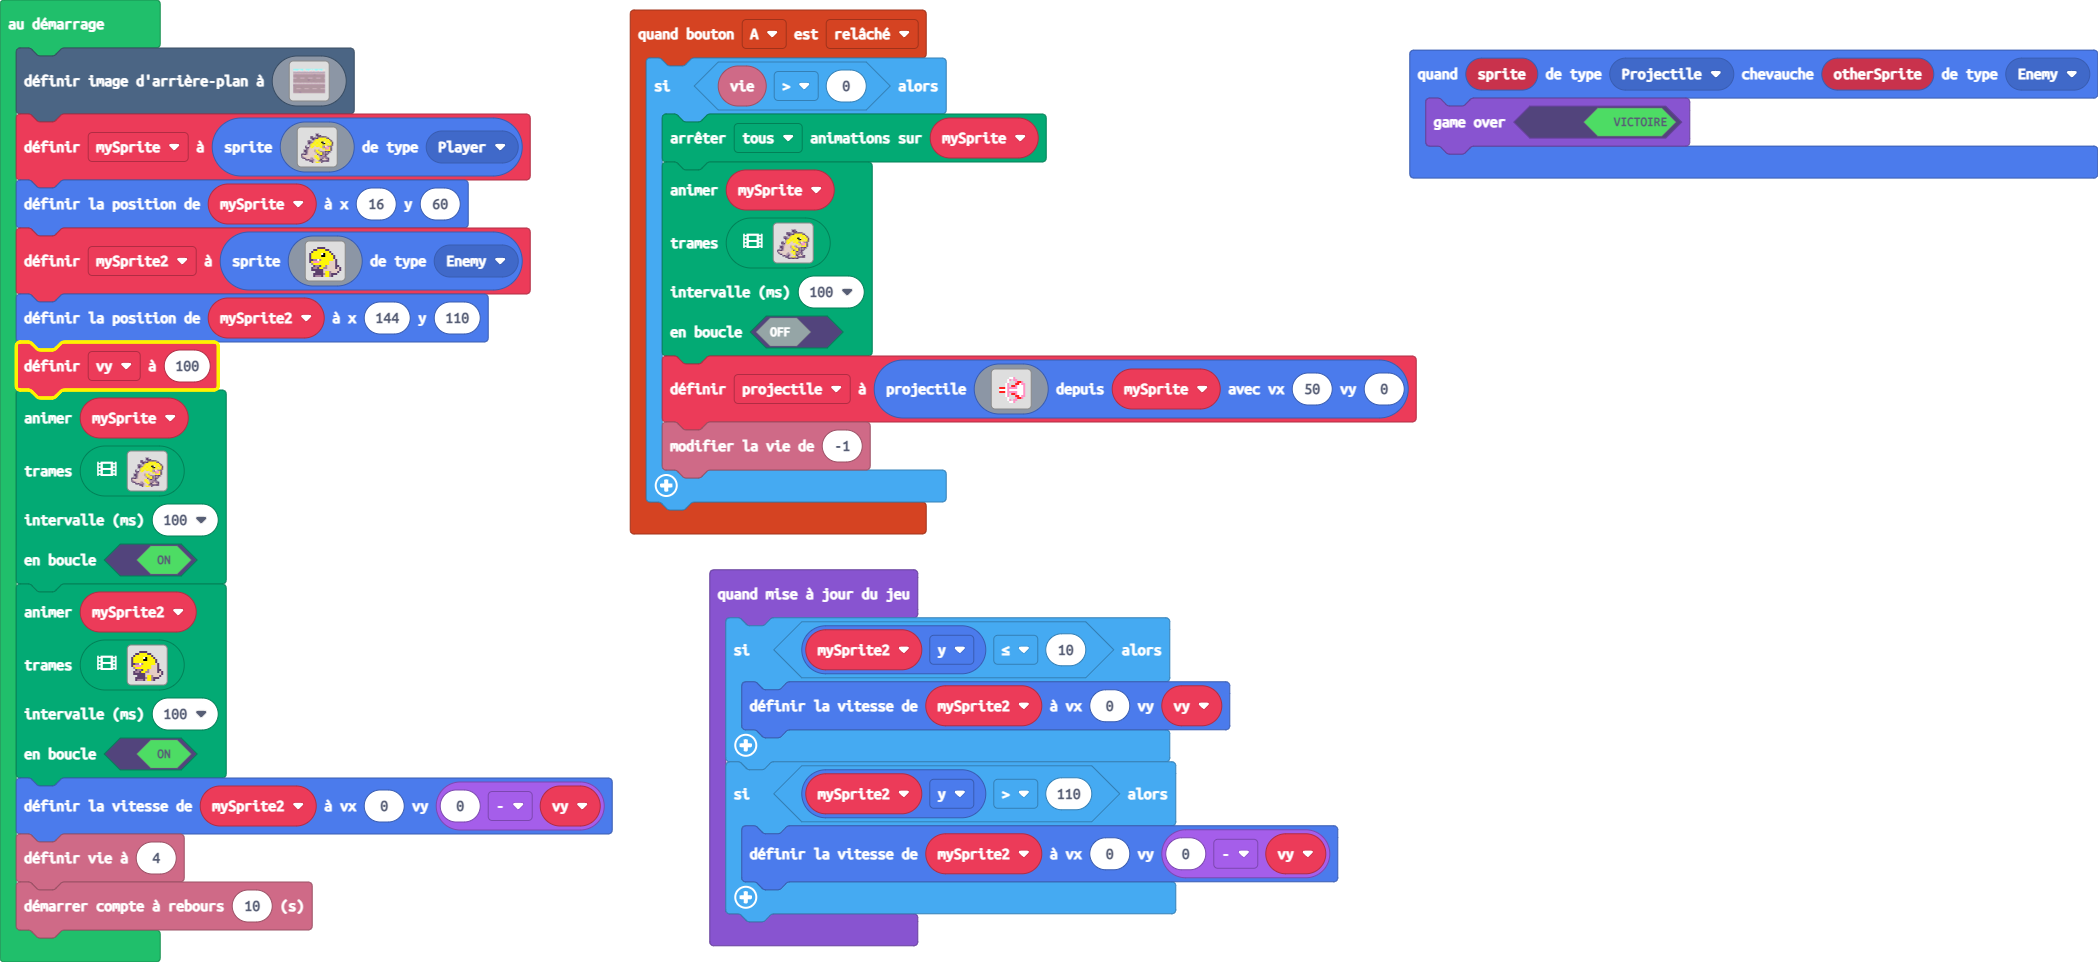
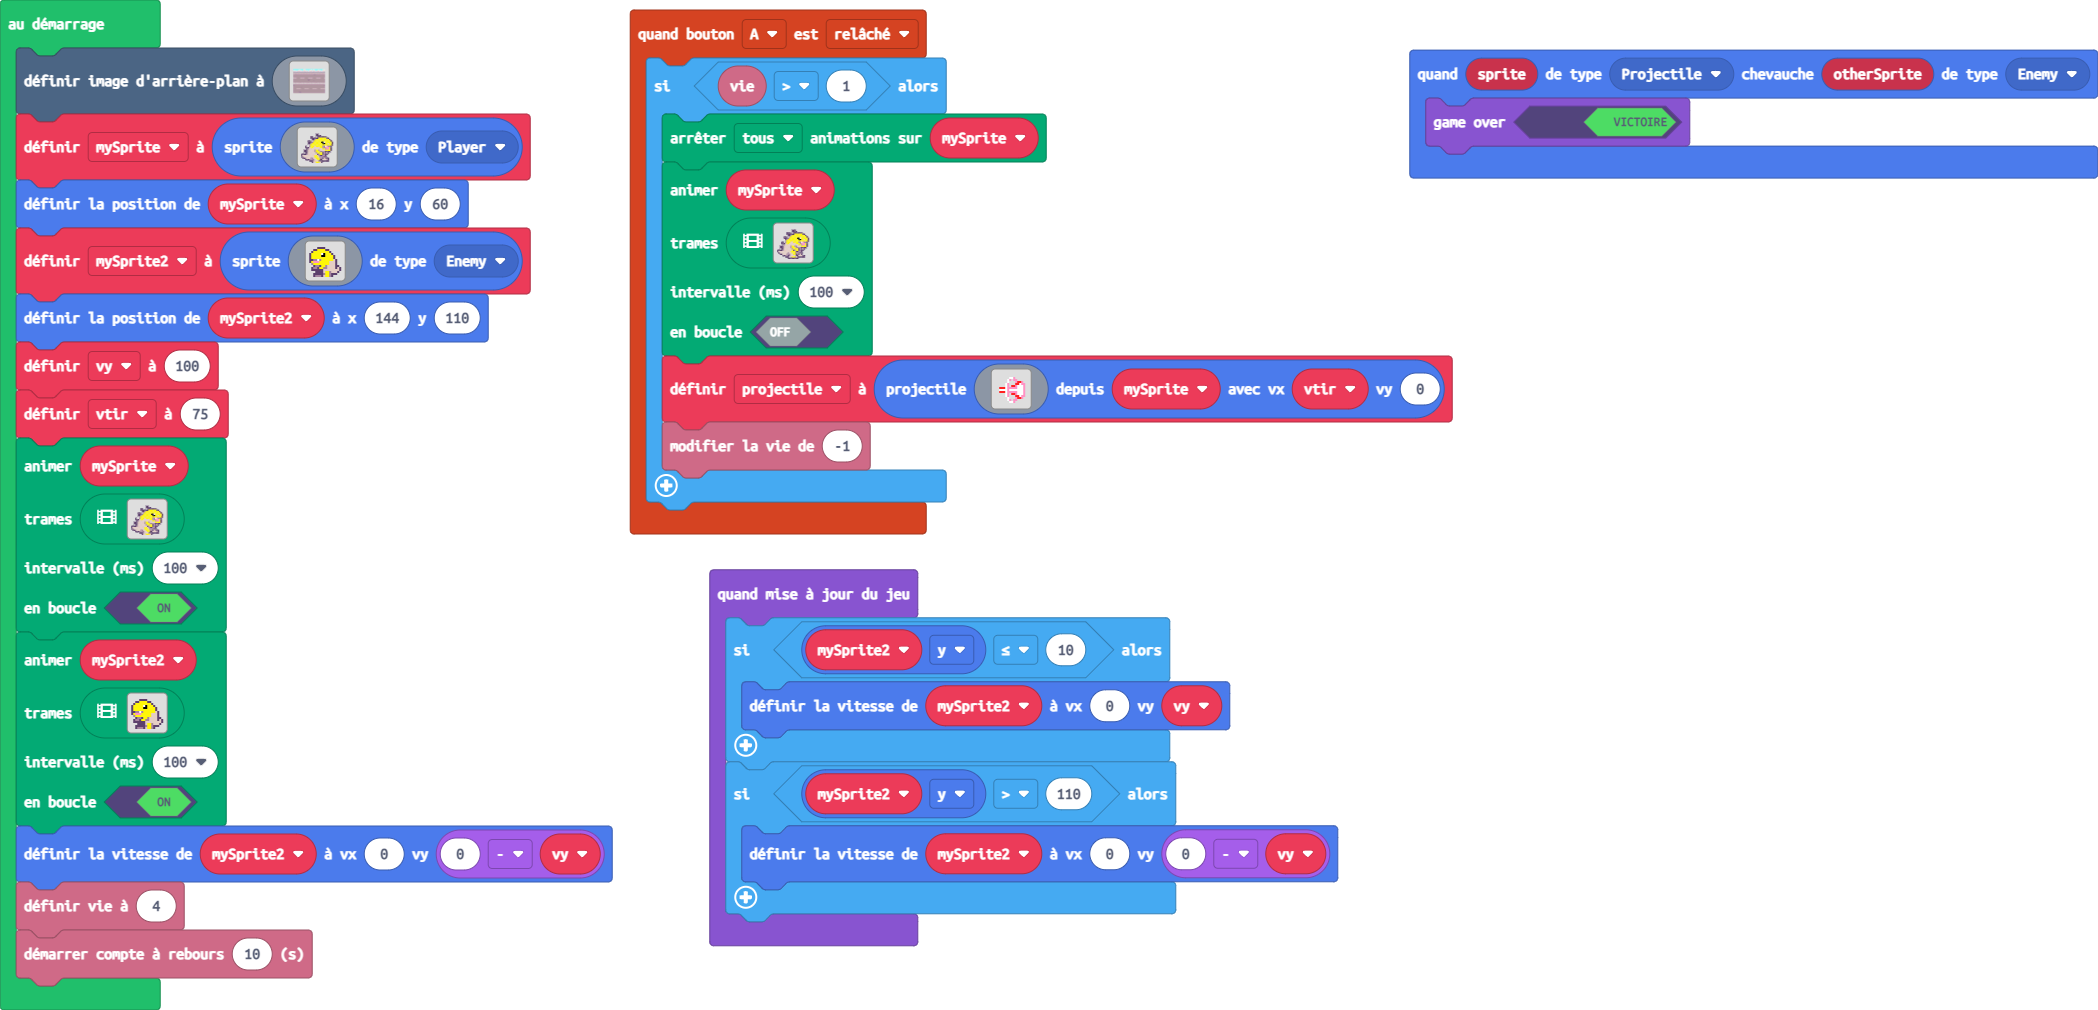
Mise à jour main.blocks, main.ts

Changed region(s): [[0.2788, 0.0, 0.7126, 0.9979], [0.0, 0.0, 0.3098, 0.9979], [0.6506, 0.0312, 1.0, 0.1871]]

diff --git a/main.ts b/main.ts
@@ -1,5 +1,5 @@
 controller.A.onEvent(ControllerButtonEvent.Released, function () {
-    if (info.life() > 0) {
+    if (info.life() > 1) {
         animation.stopAnimation(animation.AnimationTypes.All, mySprite)
         animation.runImageAnimation(
         mySprite,
@@ -174,7 +174,7 @@ controller.A.onEvent(ControllerButtonEvent.Released, function () {
             . . . . . . 1 3 . 3 3 . . . . . 
             . . . . . . . 1 1 3 . . . . . . 
             . . . . . . . . . . . . . . . . 
-            `, mySprite, 50, 0)
+            `, mySprite, vtir, 0)
         info.changeLifeBy(-1)
     }
 })
@@ -182,6 +182,7 @@ sprites.onOverlap(SpriteKind.Projectile, SpriteKind.Enemy, function (sprite, oth
     game.gameOver(true)
 })
 let projectile: Sprite = null
+let vtir = 0
 let mySprite: Sprite = null
 scene.setBackgroundImage(img`
     9999999999999999999999999999999999999999999999999999999999999999999999999999999999999999999999999999999999999999999999999999999999999999999999999999999999999999
@@ -352,6 +353,7 @@ let mySprite2 = sprites.create(img`
     `, SpriteKind.Enemy)
 mySprite2.setPosition(144, 110)
 let vy = 100
+vtir = 75
 animation.runImageAnimation(
 mySprite,
 [img`
